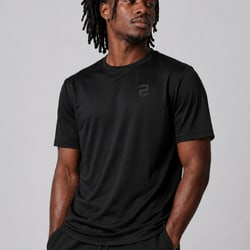
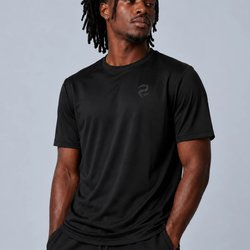
Men's T-Shirt: set shots lead the gallery; set front is the cover (cards, homepage, share), set side is the Shop All hover; studio trio follows

diff --git a/product.html b/product.html
@@ -338,7 +338,7 @@ const PRODUCTS={
   'low-impact-bra':{name:'Low Impact Sports Bra',gender:"Women's",price:'KES 4,450',priceVal:4450,image:'images/low-impact-bra.jpg',images:['images/low-impact-bra.jpg','images/low-impact-bra-front.jpg','images/low-impact-bra-side.jpg','images/low-impact-bra-back.jpg'],sizes:['S','M','L','XL','XXL'],desc:"Lightweight and breathable for yoga, pilates, stretching, and low-intensity sessions. Scoop neck with a clean racerback silhouette. Removable padding, soft-touch fabric.",details:['Light support rating','Racerback silhouette','Scoop neckline','Removable padding','Soft-touch four-way stretch fabric','Fabric: Body Fabric: 82% Polyamide, 18% Elastane / Mesh: 88% Polyamide, 12% Elastane Mesh']},
   'jacket-w':{name:"Women's Jacket",gender:"Women's",price:'KES 7,200',priceVal:7200,image:'images/jacket-w.jpg',images:['images/jacket-w.jpg','images/jacket-w-front-angle.jpg','images/jacket-w-back-angle.jpg','images/jacket-w-back.jpg'],sizes:['S','M','L','XL','XXL'],desc:"A versatile training jacket built for warm-ups, cool-downs, and everything in between. Two side pockets and a straight fit.",details:['Full-length zip front','Two side zip pockets','Straight fit','Fabric: 100% Polyester']},
   'tshirt-w':{name:"Women's T-Shirt",gender:"Women's",price:'KES 4,200',priceVal:4200,image:'images/tshirt-w.jpg',images:['images/tshirt-w.jpg','images/tshirt-w-front-angle.jpg','images/tshirt-w-back.jpg','images/tshirt-w-detail.jpg','images/tshirt-w-movement.jpg'],sizes:['S','M','L','XL','XXL'],desc:"A clean training tee built for movement. Lightweight moisture-wicking fabric, a relaxed fit that stays in place, and a full-length hem. Wear it to the gym, on a run, or straight after.",details:['Moisture-wicking fabric','Relaxed fit, full length','Crew neck','Flatlock shoulder seams','Fabric: 89% Polyester, 11% Elastane']},
-  'tshirt-m':{name:"Men's T-Shirt",gender:"Men's",price:'KES 4,200',priceVal:4200,image:'images/tshirt-m.jpg',images:['images/tshirt-m.jpg','images/tshirt-m-side.jpg','images/tshirt-m-back.jpg','images/tshirt-m-set-front.jpg','images/tshirt-m-set-side.jpg','images/tshirt-m-set-back.jpg'],sizes:['S','M','L','XL','XXL'],desc:"A training tee that does its job without getting in the way. Sweat-wicking fabric, a clean regular fit, and a slightly dropped hem. Equally at home in the gym or on the way there.",details:['Moisture-wicking fabric','Regular fit with dropped hem','Crew neck','Flatlock shoulder seams','Fabric: 89% Polyester, 11% Elastane']},
+  'tshirt-m':{name:"Men's T-Shirt",gender:"Men's",price:'KES 4,200',priceVal:4200,image:'images/tshirt-m.jpg',images:['images/tshirt-m.jpg','images/tshirt-m-set-side.jpg','images/tshirt-m-set-back.jpg','images/tshirt-m-front.jpg','images/tshirt-m-side.jpg','images/tshirt-m-back.jpg'],sizes:['S','M','L','XL','XXL'],desc:"A training tee that does its job without getting in the way. Sweat-wicking fabric, a clean regular fit, and a slightly dropped hem. Equally at home in the gym or on the way there.",details:['Moisture-wicking fabric','Regular fit with dropped hem','Crew neck','Flatlock shoulder seams','Fabric: 89% Polyester, 11% Elastane']},
   'quarter-zip-m':{name:"Men's Quarter Zip",gender:"Men's",price:'KES 5,600',priceVal:5600,image:'images/quarter-zip-m.jpg',images:['images/quarter-zip-m.jpg','images/quarter-zip-m-front.jpg','images/quarter-zip-m-side.jpg','images/quarter-zip-m-seated.jpg'],sizes:['S','M','L','XL','XXL'],desc:"The warm-up layer you'll reach for every session. Quarter-zip collar, flatlock seams, and a clean minimal aesthetic. Lightweight enough to keep on during training.",details:['Quarter-zip collar','Flatlock seam construction','Regular straight fit','Moisture-wicking fabric','Fabric: 83% Polyester, 17% Elastane']},
   'shorts-m':{name:"Men's Shorts",gender:"Men's",price:'KES 6,050',priceVal:6050,image:'images/shorts-m.jpg',images:['images/shorts-m.jpg','images/shorts-m-side.jpg','images/shorts-m-back.jpg'],sizes:['S','M','L','XL','XXL'],desc:"Lightweight training shorts with an internal compression liner. Elastic waistband with drawcord. Side slit hem for full range of movement. Rear zip pocket.",details:['Internal compression liner','Elastic waistband with drawcord','Side slit hem','Rear zip pocket','Quick-dry fabric','Fabric: Outer Body: 92% Polyester, 8% Elastane / Outer Insert Fabric: 88% Polyester, 12% Elastane / Inner Layer Fabric: 88% Polyamide, 12% Elastane']},
   'training-pants-m':{name:"Training Pants",gender:"Men's",price:'KES 6,600',priceVal:6600,image:'images/training-pants-m.jpg',images:['images/training-pants-m.jpg','images/training-pants-m-side.jpg','images/training-pants-m-back.jpg'],sizes:['S','M','L','XL','XXL'],desc:"Full-length training pants built for early mornings and cool weather. Tapered fit, ankle zips for easy on/off, and a secure waistband.",details:['Tapered running fit','Ankle zip cuffs','Elastic waistband with drawcord','Two zip side pockets','Fabric: Main Fabric: 75% Polyamide, 25% Elastane / Insert Fabric: 88% Polyester, 12% Elastane']},

diff --git a/collections.html b/collections.html
@@ -201,7 +201,7 @@
       <div class="prod-card fu d1" data-gender="men">
         <div class="relative" style="aspect-ratio:3/4;overflow:hidden;background:#f3f4f6;">
           <img src="images/tshirt-m.jpg" alt="Men's T-Shirt" style="width:100%;height:100%;object-fit:cover;object-position:center;display:block;">
-          <img src="images/tshirt-m-side.jpg" alt="" aria-hidden="true" class="card-hover-img" loading="lazy" decoding="async">
+          <img src="images/tshirt-m-set-side.jpg" alt="" aria-hidden="true" class="card-hover-img" loading="lazy" decoding="async">
           <button class="add-btn" onclick="addToBag('tshirt-m','Men\'s T-Shirt',4200)">Add to Bag</button>
         </div>
         <div class="p-4">
